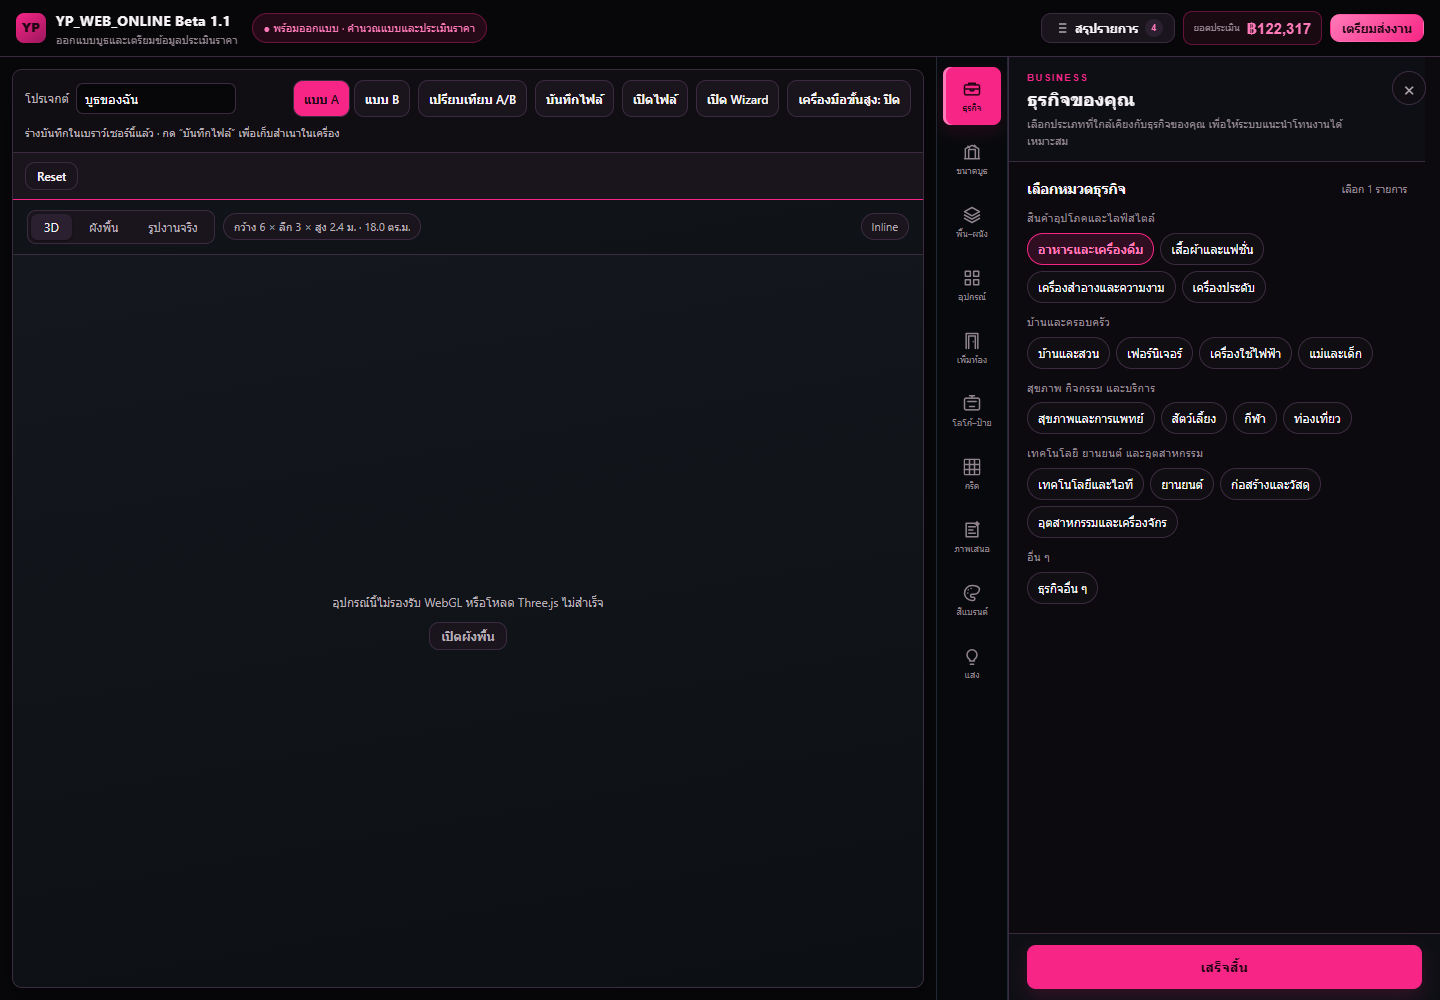
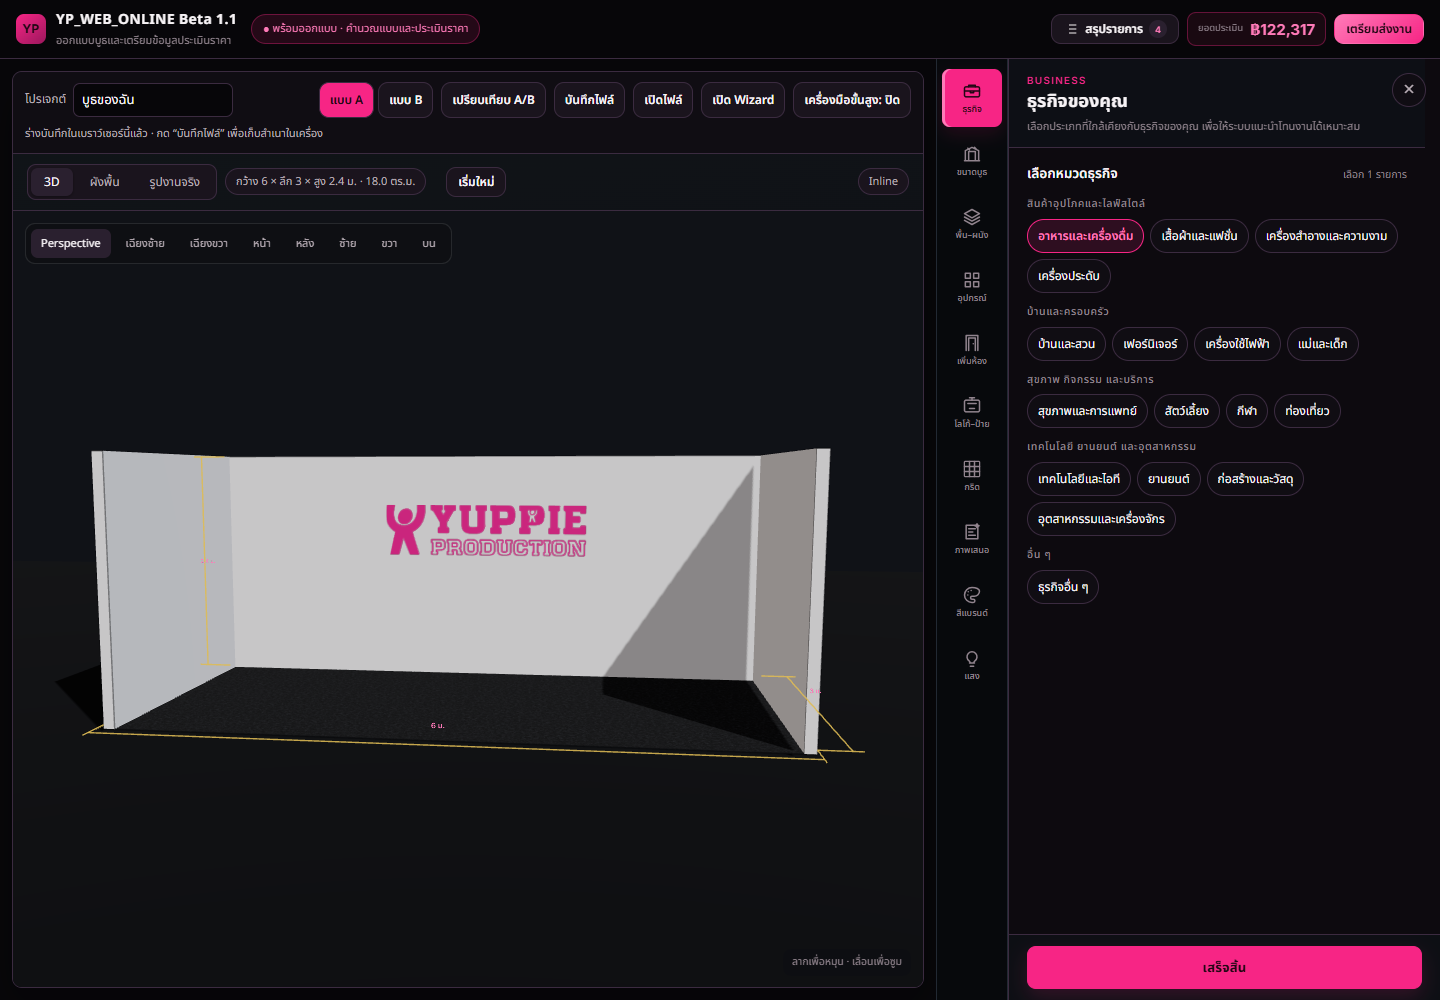
ย้ายปุ่ม Reset

diff --git a/public/yp-web-ai/js/project-workspace.js b/public/yp-web-ai/js/project-workspace.js
@@ -15,8 +15,11 @@
     <input id="projectFile" type="file" accept=".ypbooth.json,.json,application/json" hidden>`;
   viewer.prepend(bar);
   const recovery=document.createElement('div');recovery.className='project-recovery';recovery.hidden=true;
-  recovery.innerHTML='<span id="projectRecoveryText"></span><button class="btn sm" id="projectRecover" type="button">เปิดร่างเดิม</button><button class="btn sm" id="projectReset" type="button" title="คืนค่าการออกแบบทั้งหมดของแบบที่กำลังแก้ไข">Reset</button>';
+  recovery.innerHTML='<span id="projectRecoveryText"></span><button class="btn sm" id="projectRecover" type="button">เปิดร่างเดิม</button>';
   bar.after(recovery);
+  const restart=document.createElement('button');restart.id='projectReset';restart.className='btn sm';restart.type='button';
+  restart.textContent='เริ่มใหม่';restart.title='คืนค่าการออกแบบทั้งหมดของแบบที่กำลังแก้ไข';
+  document.getElementById('tagSize').after(restart);
   const $=id=>document.getElementById(id),status=(message,error=false)=>{ $('projectStatus').textContent=message;$('projectStatus').dataset.error=String(error); };
   let project=null,timer=0,ready=false,loading=false,busy=false,pendingDraft=null,revision=0,savedRevision=0,writeQueue=Promise.resolve(),advanced=false;
   const dialog=document.createElement('dialog');dialog.className='project-dialog';dialog.setAttribute('aria-labelledby','projectDialogTitle');
@@ -55,7 +58,7 @@
     $('projectName').value=project.name;
     for(const slot of ['A','B']){const button=$('project'+slot);button.disabled=busy||!ready||!!pendingDraft;button.classList.toggle('on',project.active===slot);button.setAttribute('aria-pressed',String(project.active===slot));}
     for(const id of ['projectSave','projectOpen','projectWizard','projectName','projectRecover','projectReset'])$(id).disabled=busy;
-    recovery.hidden=false;
+    recovery.hidden=!pendingDraft;
     $('projectRecoveryText').hidden=!pendingDraft;
     $('projectRecover').hidden=!pendingDraft;
     for(const id of ['projectEntryRecover','projectEntryNew'])$(id).disabled=busy||!ready;
@@ -131,7 +134,7 @@
     const message=pendingDraft
       ?'ร่างอัตโนมัติเดิมทั้งโปรเจกต์จะถูกแทนที่ด้วยค่าเริ่มต้น หากต้องการเก็บร่างเดิม ให้ยกเลิกแล้วเปิดร่างเดิมและบันทึกไฟล์ก่อน'
       :'ขนาด รูปแบบบูธ วัสดุ สี โลโก้ แสง อุปกรณ์ และมุมกล้องในแบบ '+project.active+' จะกลับเป็นค่าเริ่มต้นทั้งหมด โดยไม่เปลี่ยนอีกแบบ A/B';
-    if(!await ask('Reset แบบเป็นค่าเริ่มต้น?',message+' ไฟล์ที่ดาวน์โหลดและคลังอุปกรณ์ส่วนตัวจะไม่ถูกลบ','Reset แบบ'))return false;
+    if(!await ask('เริ่มแบบใหม่เป็นค่าเริ่มต้น?',message+' ไฟล์ที่ดาวน์โหลดและคลังอุปกรณ์ส่วนตัวจะไม่ถูกลบ','เริ่มใหม่'))return false;
     clearTimeout(timer);
     loading=true;
     try{bridge.reset();}finally{loading=false;}

diff --git a/public/yp-web-ai/index.html b/public/yp-web-ai/index.html
@@ -782,7 +782,7 @@ select:focus{border-color:var(--acc)}
 @media(prefers-reduced-motion:reduce){.quick-setup-step.is-entering{animation:none}}
 </style>
 <link rel="stylesheet" href="css/asset-editor.css?v=20260829-3">
-<link rel="stylesheet" href="css/project-workspace.css?v=20260910-entry-flow">
+<link rel="stylesheet" href="css/project-workspace.css?v=20260910-restart-position">
 </head>
 <body>
 
@@ -9988,7 +9988,7 @@ window.addEventListener('beforeunload',()=>{if(threeRenderer)threeRenderer.dispo
 </script>
 <script type="module" src="js/asset-editor/asset-editor.js?v=20260829-3"></script>
 <script src="js/project-store.js?v=20260905-1"></script>
-<script src="js/project-workspace.js?v=20260910-active-template"></script>
+<script src="js/project-workspace.js?v=20260910-restart-position"></script>
 <script src="js/starter-layouts.js?v=20260905-1"></script>
 <!-- Template selection replaces the legacy purpose card and post-setup prompt. -->
 <link rel="stylesheet" href="css/handoff.css?v=20260905-1">

diff --git a/public/yp-web-ai/css/project-workspace.css b/public/yp-web-ai/css/project-workspace.css
@@ -9,6 +9,8 @@
 .project-status[data-error=true]{color:#ffb99d}
 .project-recovery{display:flex;flex-wrap:wrap;align-items:center;gap:8px;padding:9px 12px;background:var(--bg3);border-bottom:1px solid var(--acc);font-size:12px}
 .project-recovery[hidden]{display:none}
+.vtop #projectReset{flex:none;white-space:nowrap;margin-left:12px}
+@media(max-width:820px){.vtop{flex-wrap:wrap}.vtop #projectReset{margin-left:0;min-height:40px}}
 .project-dialog{position:fixed;inset:0;margin:auto;width:min(520px,calc(100vw - 28px));max-height:85dvh;overflow:auto;padding:22px;background:var(--bg2);color:var(--tx);border:1px solid var(--line);border-radius:16px;box-shadow:0 24px 80px #0009}
 .project-dialog::backdrop{background:#000a}
 .project-dialog h2{font-size:19px;margin-bottom:10px}.project-dialog p{font-size:13px;color:var(--tx2);margin-bottom:14px}
